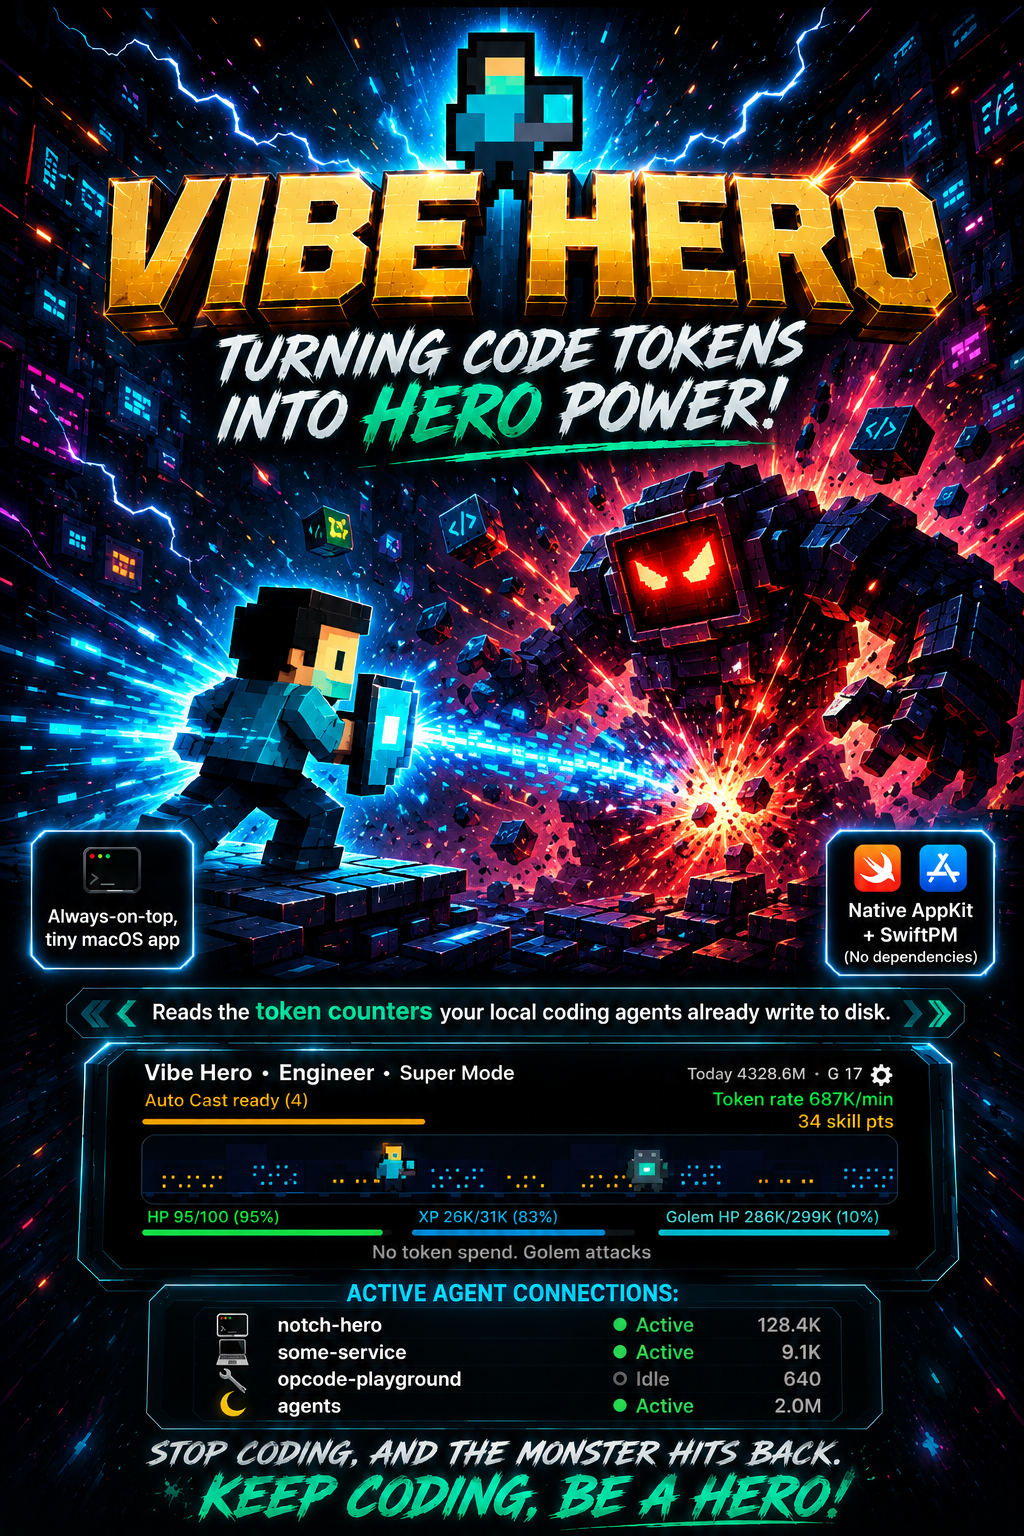
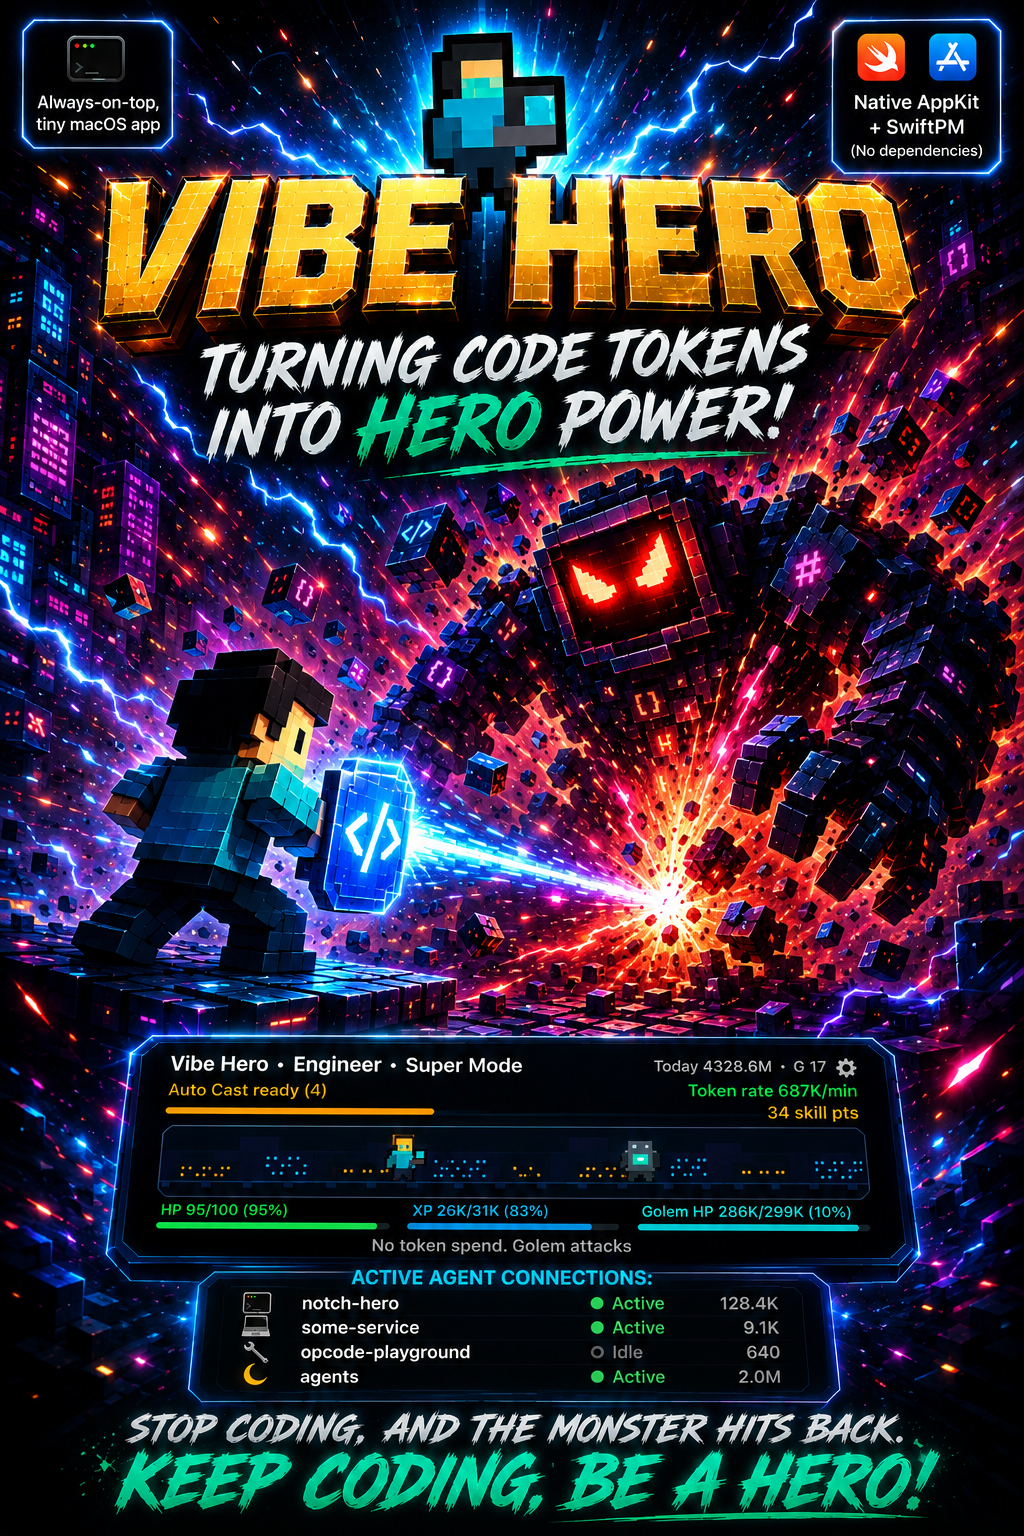
Update the poster to the code-shield artwork

diff --git a/README.md b/README.md
@@ -1,7 +1,7 @@
 # Vibe Hero
 
 <p align="center">
-  <img src="docs/images/vibe-hero-poster.png" alt="Vibe Hero poster: the pixel hero firing a beam from its laptop at a towering red-eyed golem boss over a neon-city backdrop, under the golden VIBE HERO logo and the tagline “Turning Code Tokens into Hero Power!”, with the battle HUD and the live agent session list below" width="470">
+  <img src="docs/images/vibe-hero-poster.png" alt="Vibe Hero poster: the pixel hero raising a glowing code shield against a towering red-eyed golem boss over a neon-city backdrop, under the golden VIBE HERO logo and the tagline “Turning Code Tokens into Hero Power!”, with the battle HUD and the live agent session list below" width="470">
 </p>
 
 Your MacBook notch is a pixel-art RPG, and your token usage is the sword.
